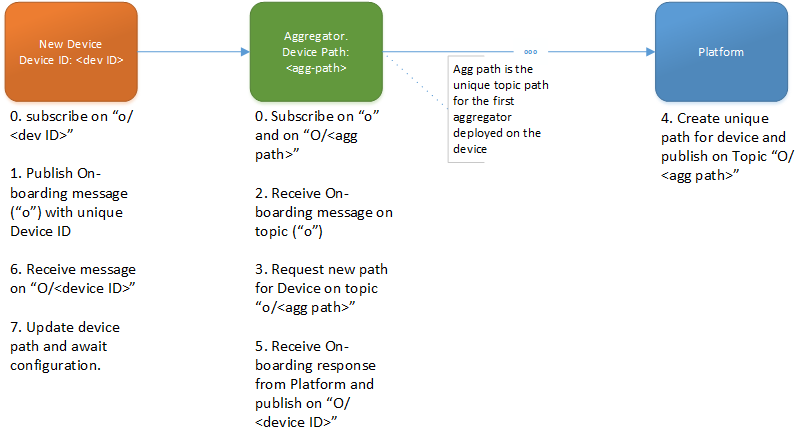
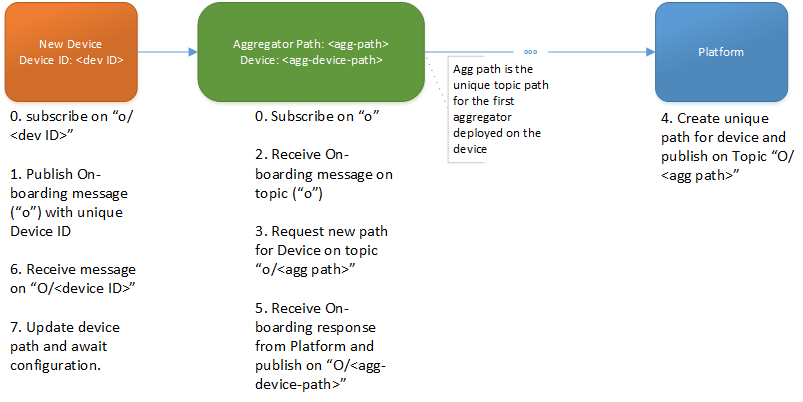
updated on-boarding diagram and added new sections to specification

diff --git a/specification.md b/specification.md
@@ -1,4 +1,4 @@
-Introduction
+Eclipse HIP&trade;
 ============
 
 # Contents
@@ -18,8 +18,9 @@ Introduction
 
 - [Messages by Role](#messages-by-role)
 
-- [General Messages](#general-messages)
+- [General Messageing](#general-messaging)
 
+[Publications and Subscriptions by Role](#publications-and-subscriptions-by-role)
 
 [Example Implementation](#example-implementation)
 
@@ -357,6 +358,8 @@ to the specified device)
 Devices can be added to an HIP implementation through the Onboarding message
 topic ("O")
 
+![Sample Implementation](media/onboard.png)
+
 As part of the Onboarding process, a unique identifier and associated paths
 (MQTT topics) are assigned to the device.
 
@@ -566,34 +569,14 @@ and zero or more parameters for the command.
 Each delegator has a unique topic ("B/" contains an error of type 1, "no path to
 device", relating to a delegators on the device on path .
 
-The following table outlines the error types and priority ranges for the
-deployment
 
-| Path  | Error type                                         | Description                                                                |
-|-------|----------------------------------------------------|----------------------------------------------------------------------------|
-| e/a/1 | Aggregation error – data not received              |                                                                            |
-| e/a/2 | Aggregation error – data in incorrect format       |                                                                            |
-| e/a/3 | Aggregation error – received data outside of range |                                                                            |
-|       |                                                    |                                                                            |
-| e/b/1 | delegators Error – no path to device               | The device path has been omitted from the delegators message               |
-|       |                                                    |                                                                            |
-| e/c/1 | Controller Error – invalid command id              | The supplied does not match a command on the controller                    |
-| e/c/2 | Controller Error – required parameter not supplied | One or more required parameters for the specified command was not supplied |
-|       |                                                    |                                                                            |
-| e/r/1 | Coordinator Error-                                 |                                                                            |
-|       |                                                    |                                                                            |
-| e/m/1 | Commander Error -                                  |                                                                            |
-|       |                                                    |                                                                            |
-| e/d/1 | Device Error                                       |                                                                            |
-|       |                                                    |                                                                            |
-| e/s/1 | Sensor Error                                       |                                                                            |
 
 ### Coordinator Messaging
  
 ### Commander Messaging
 
 
-## General Messages
+## General Messaging
 These messages can be sent by more than one role
 
 #### Query Messages: Q Topic
@@ -620,6 +603,89 @@ These messages can be sent by more than one role
 
 "v" paths include a type as the second element and priority as the third
 element(e.g. "v/e/1" is a high priority error)
+The following table outlines possible error types and priority ranges for the
+deployment
+
+| Path  | Error type                                         | Description                                                                |
+|-------|----------------------------------------------------|----------------------------------------------------------------------------|
+| v/e/2/a/1 | Aggregation error - data not received              |                                                                            |
+| v/e/2/a/2 | Aggregation error - data in incorrect format       |                                                                            |
+| v/e/2/a/3 | Aggregation error - received data outside of range |                                                                            |
+|       |                                                    |                                                                            |
+| v/e/1/b/1 | delegators Error - no path to device               | The device path has been omitted from the delegators message               |
+|       |                                                    |                                                                            |
+| v/e/2/c/1 | Controller Error - invalid command id              | The supplied does not match a command on the controller                    |
+| v/e/2/c/2 | Controller Error - required parameter not supplied | One or more required parameters for the specified command was not supplied |
+|       |                                                    |                                                                            |
+| v/e/1/r/1 | Coordinator Error-                                 |                                                                            |
+|       |                                                    |                                                                            |
+| v/e/2/m/1 | Commander Error -                                  |                                                                            |
+|       |                                                    |                                                                            |
+| v/e/2/d/1 | Device Error                                       |                                                                            |
+|       |                                                    |                                                                            |
+| v/e/2/s/1 | Sensor Error                                       |                                                                            |
+#Publications and Subscriptions by Role
+This section lists the MQTT topics subscribed to and published to by each role
+
+- [Device Topics](#device-topics)
+- [Aggregator Topics](#aggregator-topics)
+- [Delegator Topics](#delegator-topics)
+- [Coordinator Topics](#coordinator-topics)
+- [Sensor Topics](#sensor-topics)
+- [Controller Topics](#controller-topics)
+- [Commander Topics](#commander-topics)
+
+## Device Topics
+**Publish on:**
+
+- _"o"_ to onboard this device and request a unique device path from the platform
+
+- _"c/device-path"_ to send the device configuration to the platform
+
+- _"h/device-path"_ to send the "health" metrics to the platform
+
+
+
+**Subscribe to:**
+
+- _"O/device-id"_ to receive the unique device path from the platform after publishing on "o"
+
+- _"N/device-path"_ to revieve handler files from the  platform
+
+- _"C/device-path"_ to receive an updated configuration, or a request for the current configuration, from the platform
+
+
+
+## Aggregator Topics
+**Publish on:**
+
+"o/agg-device-path" to help on-board a new device
+
+"a/agg-path" to forward aggregate data towards the platform (via zero or more aggregators)
+
+**Subscribe to:**
+
+"s/some-device-path" - zero or more sensors, in order to aggregate telemetry data
+"a/some-agg-path" - zero or more aggregators, in order to aggregate telemetry data
+
+## Delegator Topics
+**Publish on:**
+
+"O/some-device-id" to forward a unique device path to device with unique id some-device-id
+
+
+**Subscribe to:**
+
+
+## Coordinator Topics
+- coordinator <-> coordinator topics
+- coordinator <-> coordinator-link topics
+
+## Sensor Topics
+
+## Controller Topics
+
+## Commander Topics
 
 # Example Implementation
 
@@ -710,12 +776,33 @@ The following use cases for HIP are discussed in this part of the specification.
 
 # Message Specifications
 
--   [Device Message](#device-messages)
-
+- [Device Message](#device-messages)
+- [Sensor Messages](#sensor-messages)
+- [Aggregator Messages](#aggregator-messages)
+- [Controller Messages](#controller-messages)
+- [Delegator Messages](#delegator-messages)
+- [Commander Messages](#commander-messages)
+- [General Messages](#general-messages)
 
 ## Device Messages
 
 - [Configuration Messages](#configuration-messages)
+ - [On-boarding Messages](#on-boarding-messages)
+ - [Configuration Messages](#configuration-messages)
+ - [Health Messages](#health-messages)
+ - [Handler Messages](#handler-messages)
+ 
+
+### On-boarding Messages
+
+On-boarding messages allow newly deployed devices to announce themselves to the platform, the platform can then create a unique HIP reference and device path for the device so that it can be managed as part of the deployment.
+
+Onboarding requires the following publications and subscriptions
+
+ - **"o" Topic:** the device publishes on this topic, and all aggregators subscribe to it.
+ - **"o/agg-path" Topic** - the first aggregator installed on each device (with the aggregator role) publishes on their own version of this. The same aggregation path (i.e. chain of aggregators) is used. In other words if an aggregator published on "a/y/3/5/f/p" and this is subscribed to by another aggregator which subsequently publishes on "a/y/4/2", then the "o/y/3/5/f/p" topic is also subscribed to and published on "o/y/4/2"
+ - **"O/agg-device-path" Topic** - the platform publishes on this topic, where agg-device-path is the **device id of the original aggregator**
+ - **"O/dev-id" - the device wishing to be on-boarded subscribes to this topic.
 
 ### Configuration Messages
 
@@ -1007,3 +1094,21 @@ sensor on this topic
 Orphaned devices (e.g. where the platform data has become corrupted and the
 deployment is no longer defined) can recreate the relevant deployment based on
 their configuration file
+
+
+
+### Health Messages
+
+### Handler Messages
+
+## Sensor Messages
+
+## Aggregator Messages
+
+## Controller Messages
+
+## Delegator Messages
+
+## Commander Messages
+
+## General Messages
